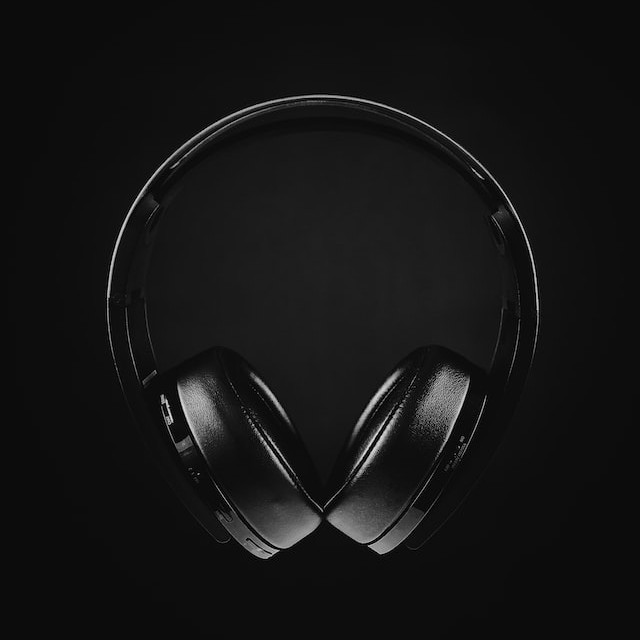
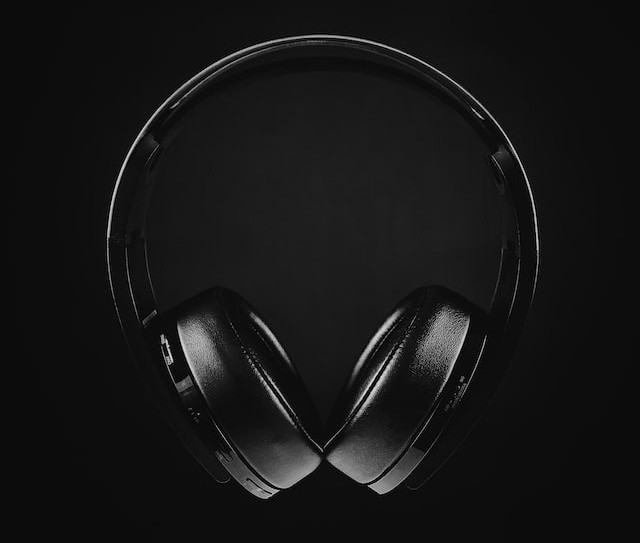
Hero section responsiveness refactored

diff --git a/src/components/app/home/styles.scss b/src/components/app/home/styles.scss
@@ -5,14 +5,23 @@
   background-repeat: no-repeat;
   background-position: center;
 
+  @include tablet {
+    background-size: cover;
+    padding: 5vw 0;
+  }
+
   @include laptop {
+    min-height: 90vh;
     background-position: right;
+    background-size: contain;
+    padding: 5rem 0;
   }
 
   .section_content {
     display: flex;
     flex-direction: column;
     align-items: center;
+    justify-content: center;
     text-align: center;
     gap: 1rem;
     padding: 8rem 0;
@@ -20,16 +29,38 @@
     @include laptop {
       align-items: flex-start;
       text-align: start;
+      gap: 1.5rem;
+      width: 25rem;
+    }
+
+    @include laptop {
+      align-items: flex-start;
+      text-align: start;
+      gap: 2rem;
       width: 25rem;
     }
 
     .content_subheading {
       text-transform: uppercase;
       letter-spacing: 0.5rem;
+      color: $primary_text_grey;
+
+      @include laptop {
+        letter-spacing: 0.75rem;
+        font-size: calc(1.1 * $font-size-base);
+      }
     }
 
     .content_heading {
       text-transform: uppercase;
+
+      @include laptop {
+        font-size: calc(1.25 * $font-size-2xl);
+      }
+
+      @include desktop {
+        font-size: calc(1.35 * $font-size-2xl);
+      }
     }
 
     .content_desc {
@@ -48,14 +79,15 @@
 }
 
 .main_section {
+  margin: 5rem 0;
+
   .product_categories {
     display: flex;
-    justify-content: space-between;
-    padding: 15rem 0 10rem;
+    flex-direction: column;
     gap: 5rem;
+    // padding: 5rem 0;
 
     .category {
-      flex: 1;
       display: flex;
       flex-direction: column;
       align-items: center;
@@ -88,6 +120,47 @@
       }
     }
   }
+
+  // .product_categories {
+  //   display: flex;
+  //   justify-content: space-between;
+  //   padding: 15rem 0 10rem;
+  //   gap: 5rem;
+
+  //   .category {
+  //     flex: 1;
+  //     display: flex;
+  //     flex-direction: column;
+  //     align-items: center;
+  //     justify-content: flex-end;
+  //     height: 15rem;
+  //     background-color: $secondary_bg_white;
+  //     border-radius: 0.5rem;
+  //     padding-bottom: 2rem;
+
+  //     img {
+  //       width: 15rem;
+  //       position: relative;
+  //       top: -10%;
+  //     }
+
+  //     p {
+  //       text-transform: uppercase;
+  //     }
+
+  //     a {
+  //       text-transform: uppercase;
+  //       display: flex;
+  //       align-items: center;
+  //       gap: 0.5rem;
+
+  //       img {
+  //         width: 1rem;
+  //         margin-top: 0.2rem;
+  //       }
+  //     }
+  //   }
+  // }
 
   .feature_products {
     display: flex;

diff --git a/src/components/app/home/index.jsx b/src/components/app/home/index.jsx
@@ -1,20 +1,20 @@
-// const categories = [
-//   {
-//     id: 1,
-//     name: "headphones",
-//     image: "./assets/images/products/category_hero/headphones_hero.png",
-//   },
-//   {
-//     id: 2,
-//     name: "Speakers",
-//     image: "./assets/images/products/category_hero/speakers_hero.png",
-//   },
-//   {
-//     id: 3,
-//     name: "Earphones",
-//     image: "./assets/images/products/category_hero/earphones_hero.png",
-//   },
-// ];
+const categories = [
+  {
+    id: 1,
+    name: "headphones",
+    image: "./assets/images/products/category_hero/headphones_hero.png",
+  },
+  {
+    id: 2,
+    name: "Speakers",
+    image: "./assets/images/products/category_hero/speakers_hero.png",
+  },
+  {
+    id: 3,
+    name: "Earphones",
+    image: "./assets/images/products/category_hero/earphones_hero.png",
+  },
+];
 
 const Home = () => (
   <>
@@ -31,7 +31,7 @@ const Home = () => (
         </div>
       </div>
     </section>
-    {/* <main className="main_section">
+    <main className="main_section">
       <div className="container">
         <div className="product_categories">
           {categories.map(({ id, name, image }) => (
@@ -97,7 +97,7 @@ const Home = () => (
           </div>
         </div>
       </div>
-    </main> */}
+    </main>
   </>
 );
 

diff --git a/src/components/kit/core/styles.scss b/src/components/kit/core/styles.scss
@@ -108,6 +108,10 @@ body {
 .container {
   width: 90vw;
   margin: 0 auto;
+
+  @include desktop {
+    width: 80vw;
+  }
 }
 
 button {
